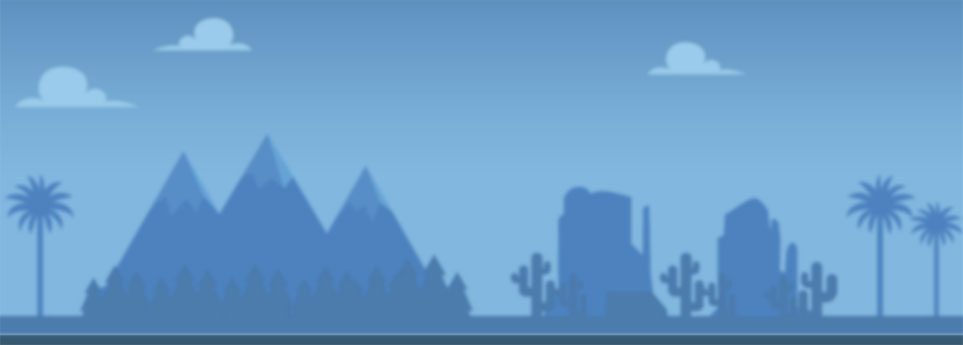
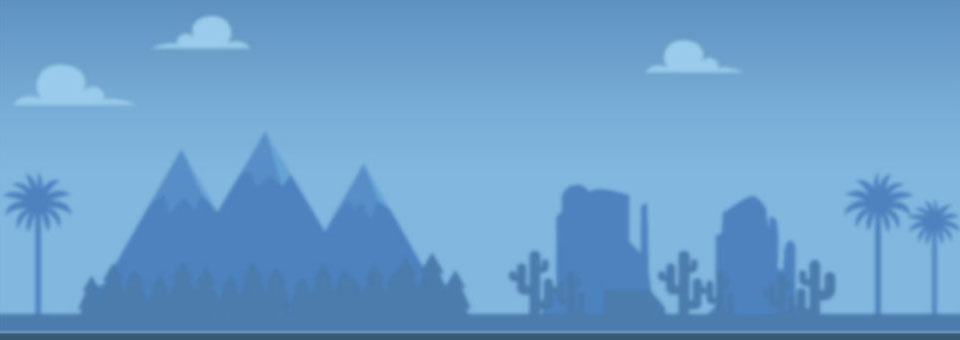
updates

Changed region(s): [[0.0, 0.9118, 1.0, 1.0], [0.4688, 0.9118, 0.5625, 0.9412], [0.7188, 0.9118, 0.75, 0.9412]]

diff --git a/summer-reading/registration/index.html b/summer-reading/registration/index.html
@@ -64,14 +64,37 @@ e.async=true;var t=document.getElementsByTagName("script")[0];t.parentNode.inser
 	background: #375972 url("landscape.jpg") bottom left repeat-x;
 	-webkit-animation: slide 10s linear infinite;
 	animation: slide 10s linear infinite;
-	height: 355px;
+}
+.registration-row {
+	background: #375972;
+	background: -moz-linear-gradient(top, #375972 0%, #578ec7 20%, #578ec7 100%);
+	background: -webkit-linear-gradient(top, #375972 0%, #578ec7 20%, #578ec7 100%);
+	background: linear-gradient(to bottom, #375972 0%, #578ec7 20%, #578ec7 100%);
+filter: progid:DXImageTransform.Microsoft.gradient( startColorstr='#375972', endColorstr='#578ec7', GradientType=0 );
+}
+.content-row {
+	background: #375972 linear-gradient(#578ec7, #375972);
+}
+.button-wrapper, .box-wrapper {
+	display: flex;
+	flex-wrap: wrap;
+	justify-content: center;
+}
+.car {
+	margin: 10px 5px 0 5px;
+}
+.box {
+	width: 500px;
+	background: #c4934b;
+	padding: 35px 35px 40px;
+	margin: 15px;
 }
  @-webkit-keyframes slide {
  from {
 background-position: 0 0;
 }
  to {
-background-position: 963px 0;
+background-position: 960px 0;
 }
 }
  @keyframes slide {
@@ -79,14 +102,8 @@ background-position: 963px 0;
 background-position: 0 0;
 }
  to {
-background-position: 963px 0;
+background-position: 960px 0;
 }
-}
-.car {
-	margin: 10px 5px 0 5px;
-}
-.content-row {
-	background: #375972 linear-gradient(#375972, #578ec7);
 }
 .vibrate {
 	-webkit-animation: vibrate 2s linear infinite both;
@@ -329,9 +346,27 @@ background-position: 963px 0;
     </div>
     <div class="car"><img class="vibrate center-block img-responsive" src="car.png" alt="Road Trip"></div>
   </div>
+  <div class="row registration-row">
+    <div class="padding-top-40 padding-bottom-30">
+      <div class="button-wrapper">
+        <div class="button-item"><a href="#" target="_blank" class="margin-15 text-uppercase btn btn-primary">New Reader Registration</a></div>
+        <div class="button-item"><a href="https://wandooreader.com/douglascountylibraries/the-great-summer-reading-road-trip/users/sessions/new" target="_blank" class="margin-15 text-uppercase btn btn-primary">Returning Reader Registration</a></div>
+        <div class="button-item"><a href="https://douglascountylibraries.evanced.info/reader/family" target="_blank" class="margin-15 text-uppercase btn btn-primary">Family Management Tool </a></div>
+      </div>
+    </div>
+  </div>
   <div class="row content-row">
-    <div class="container white text-center padding-bottom-30">
-      <div class="margin-30"> <a href="#" target="_blank" class="margin-15 text-uppercase btn btn-primary">New Reader Registration</a><a href="#" target="_blank" class="margin-15 text-uppercase btn btn-primary">Returning Reader Registration</a><a href="#" target="_blank" class="margin-15 text-uppercase btn btn-primary">Family Management Tool </a></div>
+    <div class="container text-center black padding-bottom-80">
+      <div class="box-wrapper">
+        <div class="box">
+          <h4 class="black roboto no-margin-top">Help us meet our community goal of 16,775 people signed up!</h4>
+          <div>If we meet our goal, the Douglas County Libraries Foundation will donate $500 to Nature’s Educators, a top-rated nonprofit educational wildlife organization in Douglas County. </div>
+        </div>
+        <div class="box">
+          <h4 class="black roboto no-margin-top">On the road to a reward! Help your school win $250!</h4>
+          <div>All you have to do is sign up! Be sure to note your school name and your grade. The school with the most sign-ups by July 31 wins $250. Contest winner announced in August.</div>
+        </div>
+      </div>
     </div>
   </div>
   <!-- InstanceEndEditable --> </div>

diff --git a/summer-reading/index.html b/summer-reading/index.html
@@ -423,7 +423,7 @@ background-position: 2700px 0;
       <h1 class="grand-hotel no-margin-bottom white">Come to our Kickoff Party!</h1>
       <h3 class="roboto white">Saturday, June 1, 10AM-2PM, at all DCL locations.</h3>
       <h4 class="white no-margin-bottom">Bouncy House, Games, Food Truck, Book Fair and much more!</h4>
-      <div class="margin-top-30 margin-bottom-15"> <a href="registration/" class="text-uppercase btn btn-primary">Register Now!</a></div>
+      <div class="margin-top-30 margin-bottom-15"> <a href="http://douglascountylibraries.evanced.info/signup/list?nomobile=1&ag=&kw=summer+reading+kickoff&lib=ALL&nd=45" target="_blank" class="text-uppercase btn btn-primary">Register Now!</a></div>
       <div>Kickoff Parties sponsored in part by Smile Doctors.</div>
     </div>
   </div>
